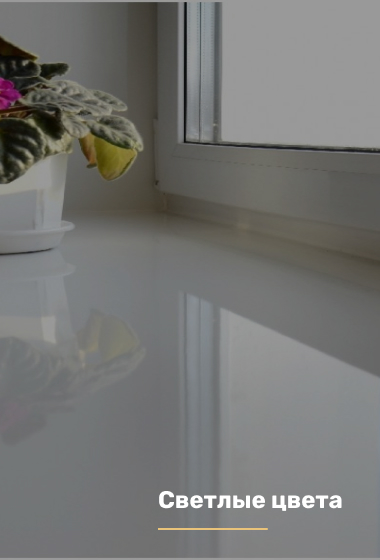
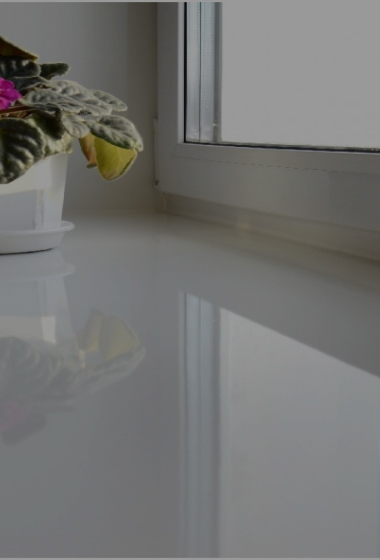
Add files via upload

Changed region(s): [[0.4053, 0.8804, 0.8974, 0.9107], [0.4342, 0.9411, 0.6947, 0.9714]]

diff --git a/crystallit/css/style.min.css b/crystallit/css/style.min.css
@@ -4,4 +4,4 @@
  * Copyright 2011-2019 Twitter, Inc.
  * Licensed under MIT (https://github.com/twbs/bootstrap/blob/master/LICENSE)
  * Forked from Normalize.css, licensed MIT (https://github.com/necolas/normalize.css/blob/master/LICENSE.md)
- */@import url(https://fonts.googleapis.com/css2?family=Open+Sans:wght@400;700&family=Roboto:wght@400;700&display=swap);*,::after,::before{box-sizing:border-box}html{font-family:sans-serif;line-height:1.15;-webkit-text-size-adjust:100%;-webkit-tap-highlight-color:transparent}article,aside,figcaption,figure,footer,header,hgroup,main,nav,section{display:block}body{margin:0;font-family:-apple-system,BlinkMacSystemFont,"Segoe UI",Roboto,"Helvetica Neue",Arial,"Noto Sans",sans-serif,"Apple Color Emoji","Segoe UI Emoji","Segoe UI Symbol","Noto Color Emoji";font-size:1rem;font-weight:400;line-height:1.5;color:#212529;text-align:left;background-color:#fff}[tabindex="-1"]:focus{outline:0!important}hr{box-sizing:content-box;height:0;overflow:visible}h1,h2,h3,h4,h5,h6{margin-top:0;margin-bottom:.5rem}p{margin-top:0;margin-bottom:1rem}abbr[data-original-title],abbr[title]{text-decoration:underline;-webkit-text-decoration:underline dotted;text-decoration:underline dotted;cursor:help;border-bottom:0;-webkit-text-decoration-skip-ink:none;text-decoration-skip-ink:none}address{margin-bottom:1rem;font-style:normal;line-height:inherit}dl,ol,ul{margin-top:0;margin-bottom:1rem}ol ol,ol ul,ul ol,ul ul{margin-bottom:0}dt{font-weight:700}dd{margin-bottom:.5rem;margin-left:0}blockquote{margin:0 0 1rem}b,strong{font-weight:bolder}small{font-size:80%}sub,sup{position:relative;font-size:75%;line-height:0;vertical-align:baseline}sub{bottom:-.25em}sup{top:-.5em}a{color:#007bff;text-decoration:none;background-color:transparent}a:hover{color:#0056b3;text-decoration:underline}a:not([href]):not([tabindex]){color:inherit;text-decoration:none}a:not([href]):not([tabindex]):focus,a:not([href]):not([tabindex]):hover{color:inherit;text-decoration:none}a:not([href]):not([tabindex]):focus{outline:0}code,kbd,pre,samp{font-family:SFMono-Regular,Menlo,Monaco,Consolas,"Liberation Mono","Courier New",monospace;font-size:1em}pre{margin-top:0;margin-bottom:1rem;overflow:auto}figure{margin:0 0 1rem}img{vertical-align:middle;border-style:none}svg{overflow:hidden;vertical-align:middle}table{border-collapse:collapse}caption{padding-top:.75rem;padding-bottom:.75rem;color:#6c757d;text-align:left;caption-side:bottom}th{text-align:inherit}label{display:inline-block;margin-bottom:.5rem}button{border-radius:0}button:focus{outline:1px dotted;outline:5px auto -webkit-focus-ring-color}button,input,optgroup,select,textarea{margin:0;font-family:inherit;font-size:inherit;line-height:inherit}button,input{overflow:visible}button,select{text-transform:none}select{word-wrap:normal}[type=button],[type=reset],[type=submit],button{-webkit-appearance:button}[type=button]:not(:disabled),[type=reset]:not(:disabled),[type=submit]:not(:disabled),button:not(:disabled){cursor:pointer}[type=button]::-moz-focus-inner,[type=reset]::-moz-focus-inner,[type=submit]::-moz-focus-inner,button::-moz-focus-inner{padding:0;border-style:none}input[type=checkbox],input[type=radio]{box-sizing:border-box;padding:0}input[type=date],input[type=datetime-local],input[type=month],input[type=time]{-webkit-appearance:listbox}textarea{overflow:auto;resize:vertical}fieldset{min-width:0;padding:0;margin:0;border:0}legend{display:block;width:100%;max-width:100%;padding:0;margin-bottom:.5rem;font-size:1.5rem;line-height:inherit;color:inherit;white-space:normal}progress{vertical-align:baseline}[type=number]::-webkit-inner-spin-button,[type=number]::-webkit-outer-spin-button{height:auto}[type=search]{outline-offset:-2px;-webkit-appearance:none}[type=search]::-webkit-search-decoration{-webkit-appearance:none}::-webkit-file-upload-button{font:inherit;-webkit-appearance:button}output{display:inline-block}summary{display:list-item;cursor:pointer}template{display:none}[hidden]{display:none!important}*{font-family:'Open Sans',sans-serif;font-family:Roboto,sans-serif;margin:0;padding:0}body{position:relative}.container{width:1190px;margin:0 auto;position:relative}.divider{width:100px;height:4px;background:#e9c37a;margin:0 auto;margin-top:21px}.promo{background:url(../img/header/header_bg.jpg) 50% 50%/cover no-repeat}.header{min-height:604px;padding-top:76px;position:relative}.header__wrapper{display:flex;justify-content:space-between;min-height:604px}.header__title{margin-top:109px;font-weight:700;font-size:56px;line-height:60px;color:#fff}.header__subtitle{font-family:"Open Sans";margin-top:52px;font-weight:700;font-size:20px;line-height:27px;color:#fff}.header__btn{margin-top:52px;width:220px;height:60px;background:rgba(0,0,0,.11);border:1px solid #fff;box-sizing:border-box;border-radius:10px;font-weight:700;font-size:16px;line-height:19px;color:#fff;transition:all .3s}.header__btn:hover{border:1px solid #e9c37a;color:#e9c37a}.header__slider{position:relative;left:38px;width:631px;padding-top:30px}.header__slider .slick-list{overflow:hidden}.header__slider .slick-track{display:flex;margin-left:10px}.header__slider .slick-slide{outline:0}.header__slider .slick-arrow{position:absolute;bottom:15px;right:34px;font-size:0;width:49px;height:49px;border:none;outline:0}.header__slider .slick-prev{background:url(../icons/slider-left.svg) 0 0/100% no-repeat;right:92px;transition:all .3s}.header__slider .slick-prev:hover{background:url(../icons/slider-left-hover.svg) 0 0/100% no-repeat}.header__slider .slick-next{background:url(../icons/slider-right.svg) 0 0/100% no-repeat;transition:all .3s}.header__slider .slick-next:hover{background:url(../icons/slider-right-hover.svg) 0 0/100% no-repeat}.header__slide{width:282px;height:475px;margin-right:20px}.header__slide img{width:100%;height:100%;-o-object-fit:cover;object-fit:cover;box-shadow:0 30px 12px rgba(0,0,0,.29);border-radius:3px}.header__socials{position:absolute;left:0;bottom:58px;width:213px;height:60px;color:#fff;display:flex;align-items:center;justify-content:space-between}.header__whatsapp{display:block;background:url(../icons/whatsapp.png) center center/cover no-repeat;width:60px;height:60px;transition:all .3s}.header__whatsapp:hover{background:url(../icons/whatsapp-hover.png) center center/cover no-repeat}.header__instagram{display:block;background:url(../icons/instagram.png) center center/cover no-repeat;width:60px;height:60px;transition:all .3s}.header__instagram:hover{background:url(../icons/instagram-hover.png) center center/cover no-repeat}.header__vk{display:block;background:url(../icons/vk.png) center center/cover no-repeat;width:60px;height:60px;transition:all .3s}.header__vk:hover{background:url(../icons/vk-hover.png) center center/cover no-repeat}.nav{height:76px;background:rgba(60,60,60,.81);padding-top:11px;position:fixed;top:0;left:0;width:100%;z-index:10}.nav__wrapper{display:flex;align-items:center;justify-content:space-between}.nav__logo{width:176px;height:52px}.nav__logo img{width:100%;height:100%;-o-object-fit:cover;object-fit:cover}.nav__menu{width:469px}.nav__list{display:flex;align-items:center;justify-content:space-between;margin-bottom:0}.nav__item{list-style-type:none}.nav__link{font-weight:400;font-size:14px;line-height:17px;color:#f8f8f8;position:relative}.nav__link:after{content:"";position:absolute;width:0;height:2px;background-color:#e9c37a;top:27px;left:0;transition:all .6s}.nav__link:hover{color:#e9c37a;text-decoration:none}.nav__link:hover:after{width:100%}.about{min-height:336px;padding:72px 0 42px 0}.about__about{font-family:"Open Sans";font-weight:700;font-size:18px;line-height:25px;color:#e9c37a}.about__wrapper{margin-top:23px;display:flex;justify-content:space-between;align-items:flex-start}.about__title{width:482px;font-family:Roboto;font-weight:700;font-size:34px;line-height:48px;color:#222}.about__descr{width:586px}.about__text1{font-family:"Open Sans";font-weight:400;font-size:16px;line-height:26px;color:#222}.about__text2{margin-top:12px;font-family:"Open Sans";font-weight:400;font-size:14px;line-height:28px;color:#222}.detail{min-height:590px;background:url(../img/detail/pattern.png) 80% center/cover no-repeat}.detail__wrapper{display:flex;align-items:center;justify-content:space-between}.detail__card{min-height:560px}.detail__title{font-family:Roboto;font-weight:400;font-size:24px;line-height:31px;color:#222;margin-top:39px;text-align:center}.detail__subtitle{font-family:"Open Sans";font-weight:400;font-size:14px;line-height:18px;color:#222;margin-top:21px;text-align:center}.detail__overlay{position:absolute;top:0;left:0;right:0;bottom:0;z-index:2}.detail__overlay a{display:block;width:100%;height:100%}.flip-card{width:385px;height:385px;perspective:1000px}.flip-card-inner{position:relative;width:100%;height:100%;transition:transform 1s;transform-style:preserve-3d}.flip-card:hover .flip-card-inner{transform:rotateY(180deg)}.flip-card-back,.flip-card-front{position:absolute;width:100%;height:100%;-webkit-backface-visibility:hidden;backface-visibility:hidden}.flip-card-front{z-index:2;display:flex;justify-content:center;align-items:center}.flip-card-back{transform:rotateY(180deg);z-index:1;display:flex;justify-content:center;align-items:center}.flip-card-back:after{position:absolute;content:"";width:80px;height:80px;top:60%;left:50%;transform:translate(-50%,-50%);transition:all .5s ease;z-index:1}.flip-card-back:hover:after{top:50%;background:url(../img/detail/link.png) center center/cover no-repeat}.choise{min-height:798px;background:url("../img/choise/Group 7.jpg") center center/cover no-repeat;position:relative}.choise__left{width:383px;position:absolute;left:18%;top:114px}.choise__title{font-family:Roboto;font-weight:700;font-size:34px;line-height:44px;color:#222}.choise__descr{font-family:"Open Sans";font-weight:400;font-size:14px;line-height:32px;color:#222;margin-top:33px}.choise__right{width:990px;position:absolute;right:5.7%;top:112px}.choise__right .slick-list{overflow:hidden}.choise__right .slick-track{display:flex}.choise__right .slick-slide{outline:0}.choise__right .slick-arrow{position:absolute;bottom:15px;right:34px;font-size:0;width:55px;height:55px;border:none;outline:0}.choise__right .slick-prev{background:url(../img/choise/slider/arrow-left.jpg) 0 0/100% no-repeat;bottom:-55px;left:-118px;transition:all .3s}.choise__right .slick-next{bottom:-55px;left:-55px;background:url(../img/choise/slider/arrow-right.jpg) 0 0/100% no-repeat;transition:all .3s}.choise__slide{width:380px;height:560px;position:relative}.choise__slide img{width:100%;height:100%;-o-object-fit:cover;object-fit:cover}.advantages{min-height:1200px;padding-top:100px}.advantages__block{display:flex;justify-content:space-between;flex-wrap:wrap;position:relative}.advantages__block_2{margin-top:100px}.advantages__title{width:385px;font-family:Roboto;font-weight:700;font-size:34px;line-height:44px;color:#222;position:relative}.advantages__title:before{content:'';position:absolute;width:60px;height:2px;background-color:#e9c37a;top:20px;left:-77px}.advantages__descr{position:absolute;width:525px;height:213px;padding:44px 59px;background:#fff;box-shadow:0 0 25px rgba(0,0,0,.3)}.advantages__descr_1{top:120px}.advantages__descr_2{right:0;top:120px}.advantages__list{list-style-type:none;margin-bottom:0}.advantages__item{font-family:"Open Sans";font-weight:400;font-size:16px;line-height:26px;color:#222;position:relative}.advantages__item:before{content:"";position:absolute;width:9px;height:9px;border-radius:50%;background-color:#e9c37a;left:-20px;top:8px}.advantages__item:hover:before{border:1px solid}.project{min-height:600px;padding-top:71px;padding-bottom:71px;background:url(../img/project/pattern.png) center center/cover no-repeat}.project__title{font-family:Roboto;font-weight:700;font-size:34px;line-height:44px;color:#222;text-align:center;position:relative}.project__title:before{content:'';position:absolute;width:60px;height:2px;background-color:#e9c37a;top:23px;left:221px}.project__wrapper{margin-top:71px;display:flex;justify-content:space-between}.project__block1{display:flex;flex-direction:column;justify-content:space-between}.project__block2{display:flex;align-items:center;justify-content:center}.project__img{position:relative;cursor:pointer}.project__img:after{content:"";position:absolute;top:5%;left:5%;width:90%;height:0%;background-color:rgba(233,195,122,.89);transition:all .6s}.project__img:hover:after{height:90%}.project__img1{width:347px;height:296px}.project__img1 img{width:100%;height:100%;-o-object-fit:cover;object-fit:cover}.project__img2{width:483px;height:600px}.project__img2 img{width:100%;height:100%;-o-object-fit:cover;object-fit:cover}.reviews{min-height:520px;background-color:#777;padding-top:57px}.reviews__slider{width:988px;height:326px;margin:0 auto;text-align:center;position:relative}.reviews__slider .slick-list{overflow:hidden}.reviews__slider .slick-track{display:flex}.reviews__slider .slick-slide{outline:0}.reviews__slider .slick-dots{position:absolute;bottom:-28px;left:50%;transform:translateX(-50%);display:flex;justify-content:space-between;align-items:center;list-style-type:none;font-size:0;width:65px}.reviews__slider .slick-dots li button{height:9px;width:9px;border:1px solid #fff;border-radius:50%;background-color:#777;outline:0}.reviews__slider .slick-dots li.slick-active button{height:9px;width:9px;border:1px solid #fff;border-radius:50%;outline:0;background-color:#fff}.reviews__quote{width:40px;height:40px;margin:0 auto}.reviews__quote img{width:100%;height:100%;-o-object-fit:cover;object-fit:cover}.reviews__title{margin-top:21px;font-family:"Open Sans";font-weight:700;font-size:30px;line-height:24px;color:#e9c37a}.reviews__review{margin-top:53px;font-family:"Open Sans";font-weight:400;font-size:16px;line-height:27px;color:#fff}.reviews__author{margin-top:53px;font-family:"Open Sans";font-weight:700;font-size:18px;line-height:27px;color:#fff;text-transform:uppercase}.form{min-height:620px;padding-top:120px;padding-bottom:72px;padding-left:50px}.form__wrapper{display:flex;justify-content:space-around;align-items:flex-start}.form__title{width:400px;font-family:Roboto;font-weight:700;font-size:34px;line-height:44px;color:#222}.form__title:before{content:'';position:absolute;width:60px;height:2px;background-color:#e9c37a;top:23px;left:-21px}.form__form{width:554px;margin-top:-42px}.form__form form{display:flex;flex-direction:column;justify-content:space-between}.form__input{width:100%;height:56px;background:#e9e8e8;padding:18px 29px;outline:0;margin-top:42px;border:none}.form__input::-webkit-input-placeholder{font-family:"Open Sans";font-weight:400;font-size:15px;line-height:20px;color:#222}.form__input::-moz-placeholder{font-family:"Open Sans";font-weight:400;font-size:15px;line-height:20px;color:#222}.form__input:-ms-input-placeholder{font-family:"Open Sans";font-weight:400;font-size:15px;line-height:20px;color:#222}.form__input::-ms-input-placeholder{font-family:"Open Sans";font-weight:400;font-size:15px;line-height:20px;color:#222}.form__input::placeholder{font-family:"Open Sans";font-weight:400;font-size:15px;line-height:20px;color:#222}.form__input2{margin-top:42px;width:100%;height:131px;background:#e9e8e8;padding:18px 29px;outline:0;border:none;resize:none}.form__input2::-webkit-input-placeholder{top:18px;font-family:"Open Sans";font-weight:400;font-size:15px;line-height:20px;color:#222}.form__input2::-moz-placeholder{top:18px;font-family:"Open Sans";font-weight:400;font-size:15px;line-height:20px;color:#222}.form__input2:-ms-input-placeholder{top:18px;font-family:"Open Sans";font-weight:400;font-size:15px;line-height:20px;color:#222}.form__input2::-ms-input-placeholder{top:18px;font-family:"Open Sans";font-weight:400;font-size:15px;line-height:20px;color:#222}.form__input2::placeholder{top:18px;font-family:"Open Sans";font-weight:400;font-size:15px;line-height:20px;color:#222}.form__btn{margin:0 auto;margin-top:52px;width:220px;height:60px;border:1px solid #000;box-sizing:border-box;border-radius:10px;background-color:#fff;transition:all .3s;text-transform:uppercase;font-family:Roboto;font-weight:700;font-size:16px;line-height:19px;color:#222}.form__btn:hover{border:2px solid #e9c37a;color:#e9c37a}.footer{min-height:347px;background:#1c1c1c;padding-top:60px}.footer__wrapper{display:flex;justify-content:space-between;align-items:flex-start}.footer__title{width:364px;font-family:Roboto;font-weight:700;font-size:36px;line-height:42px;color:#fff}.footer__subtitle{margin-top:24px;font-family:"Open Sans";font-weight:400;font-size:20px;line-height:27px;color:#fff}.footer__socials{margin-top:24px;display:flex;justify-content:space-between;align-items:center;width:138px}.footer__list{height:205px;display:flex;flex-direction:column;align-items:flex-start;justify-content:space-between;margin-bottom:0}.footer__item{list-style-type:none}.footer__link{font-family:Roboto;font-weight:400;font-size:14px;line-height:17px;color:#f8f8f8;position:relative;transition:all .6s}.footer__link:before{content:"";position:absolute;top:3px;left:-20px;width:9px;height:9px;border-radius:50%;background-color:#fff}.footer__link:hover{color:#e9c37a;text-decoration:none}.footer__link:hover:before{background-color:#e9c37a}.footer__contacts{width:330px;font-family:"Open Sans";font-style:normal;font-weight:400;font-size:20px;line-height:27px;color:#fff}.footer__contacts__title{font-family:Roboto;font-weight:700;font-size:36px;line-height:42px;color:#fff}.footer__contacts__address{margin-top:24px}.footer__contacts__phones{width:237px;margin-top:24px;text-align:right}.footer__contacts__email{margin-top:24px}.overlay{width:100%;height:100%;background:rgba(119,119,119,.9);position:fixed;top:0;display:none}.overlay__active{display:block}.modal{width:600px;position:absolute;top:50%;left:50%;transform:translate(-50%,-50%);background-color:#fff;padding:20px;padding-top:40px}.modal .form__form{margin:0 auto}.modal__title{margin-bottom:50px;font-family:Roboto;font-weight:700;font-size:36px;line-height:42px;color:#222;text-align:center}.modal__close{position:absolute;top:-8px;right:20px;font-size:46px;color:#e9c37a;cursor:pointer}
+ */@import url(https://fonts.googleapis.com/css2?family=Open+Sans:wght@400;700&family=Roboto:wght@400;700&display=swap);*,::after,::before{box-sizing:border-box}html{font-family:sans-serif;line-height:1.15;-webkit-text-size-adjust:100%;-webkit-tap-highlight-color:transparent}article,aside,figcaption,figure,footer,header,hgroup,main,nav,section{display:block}body{margin:0;font-family:-apple-system,BlinkMacSystemFont,"Segoe UI",Roboto,"Helvetica Neue",Arial,"Noto Sans",sans-serif,"Apple Color Emoji","Segoe UI Emoji","Segoe UI Symbol","Noto Color Emoji";font-size:1rem;font-weight:400;line-height:1.5;color:#212529;text-align:left;background-color:#fff}[tabindex="-1"]:focus{outline:0!important}hr{box-sizing:content-box;height:0;overflow:visible}h1,h2,h3,h4,h5,h6{margin-top:0;margin-bottom:.5rem}p{margin-top:0;margin-bottom:1rem}abbr[data-original-title],abbr[title]{text-decoration:underline;-webkit-text-decoration:underline dotted;text-decoration:underline dotted;cursor:help;border-bottom:0;-webkit-text-decoration-skip-ink:none;text-decoration-skip-ink:none}address{margin-bottom:1rem;font-style:normal;line-height:inherit}dl,ol,ul{margin-top:0;margin-bottom:1rem}ol ol,ol ul,ul ol,ul ul{margin-bottom:0}dt{font-weight:700}dd{margin-bottom:.5rem;margin-left:0}blockquote{margin:0 0 1rem}b,strong{font-weight:bolder}small{font-size:80%}sub,sup{position:relative;font-size:75%;line-height:0;vertical-align:baseline}sub{bottom:-.25em}sup{top:-.5em}a{color:#007bff;text-decoration:none;background-color:transparent}a:hover{color:#0056b3;text-decoration:underline}a:not([href]):not([tabindex]){color:inherit;text-decoration:none}a:not([href]):not([tabindex]):focus,a:not([href]):not([tabindex]):hover{color:inherit;text-decoration:none}a:not([href]):not([tabindex]):focus{outline:0}code,kbd,pre,samp{font-family:SFMono-Regular,Menlo,Monaco,Consolas,"Liberation Mono","Courier New",monospace;font-size:1em}pre{margin-top:0;margin-bottom:1rem;overflow:auto}figure{margin:0 0 1rem}img{vertical-align:middle;border-style:none}svg{overflow:hidden;vertical-align:middle}table{border-collapse:collapse}caption{padding-top:.75rem;padding-bottom:.75rem;color:#6c757d;text-align:left;caption-side:bottom}th{text-align:inherit}label{display:inline-block;margin-bottom:.5rem}button{border-radius:0}button:focus{outline:1px dotted;outline:5px auto -webkit-focus-ring-color}button,input,optgroup,select,textarea{margin:0;font-family:inherit;font-size:inherit;line-height:inherit}button,input{overflow:visible}button,select{text-transform:none}select{word-wrap:normal}[type=button],[type=reset],[type=submit],button{-webkit-appearance:button}[type=button]:not(:disabled),[type=reset]:not(:disabled),[type=submit]:not(:disabled),button:not(:disabled){cursor:pointer}[type=button]::-moz-focus-inner,[type=reset]::-moz-focus-inner,[type=submit]::-moz-focus-inner,button::-moz-focus-inner{padding:0;border-style:none}input[type=checkbox],input[type=radio]{box-sizing:border-box;padding:0}input[type=date],input[type=datetime-local],input[type=month],input[type=time]{-webkit-appearance:listbox}textarea{overflow:auto;resize:vertical}fieldset{min-width:0;padding:0;margin:0;border:0}legend{display:block;width:100%;max-width:100%;padding:0;margin-bottom:.5rem;font-size:1.5rem;line-height:inherit;color:inherit;white-space:normal}progress{vertical-align:baseline}[type=number]::-webkit-inner-spin-button,[type=number]::-webkit-outer-spin-button{height:auto}[type=search]{outline-offset:-2px;-webkit-appearance:none}[type=search]::-webkit-search-decoration{-webkit-appearance:none}::-webkit-file-upload-button{font:inherit;-webkit-appearance:button}output{display:inline-block}summary{display:list-item;cursor:pointer}template{display:none}[hidden]{display:none!important}*{font-family:'Open Sans',sans-serif;font-family:Roboto,sans-serif;margin:0;padding:0}body{position:relative}.container{width:1190px;margin:0 auto;position:relative}.divider{width:100px;height:4px;background:#e9c37a;margin:0 auto;margin-top:21px}.promo{background:url(../img/header/header_bg.jpg) 50% 50%/cover no-repeat}.header{min-height:604px;padding-top:76px;position:relative}.header__wrapper{display:flex;justify-content:space-between;min-height:604px}.header__title{margin-top:109px;font-weight:700;font-size:56px;line-height:60px;color:#fff}.header__subtitle{font-family:"Open Sans";margin-top:52px;font-weight:700;font-size:20px;line-height:27px;color:#fff}.header__btn{margin-top:52px;width:220px;height:60px;background:rgba(0,0,0,.11);border:1px solid #fff;box-sizing:border-box;border-radius:10px;font-weight:700;font-size:16px;line-height:19px;color:#fff;transition:all .3s}.header__btn:hover{border:1px solid #e9c37a;color:#e9c37a}.header__slider{position:relative;left:38px;width:631px;padding-top:30px}.header__slider .slick-list{overflow:hidden}.header__slider .slick-track{display:flex;margin-left:10px}.header__slider .slick-slide{outline:0}.header__slider .slick-arrow{position:absolute;bottom:15px;right:34px;font-size:0;width:49px;height:49px;border:none;outline:0}.header__slider .slick-prev{background:url(../icons/slider-left.svg) 0 0/100% no-repeat;right:92px;transition:all .3s}.header__slider .slick-prev:hover{background:url(../icons/slider-left-hover.svg) 0 0/100% no-repeat}.header__slider .slick-next{background:url(../icons/slider-right.svg) 0 0/100% no-repeat;transition:all .3s}.header__slider .slick-next:hover{background:url(../icons/slider-right-hover.svg) 0 0/100% no-repeat}.header__slide{width:282px;height:475px;margin-right:20px}.header__slide img{width:100%;height:100%;-o-object-fit:cover;object-fit:cover;box-shadow:0 30px 12px rgba(0,0,0,.29);border-radius:3px}.header__socials{position:absolute;left:0;bottom:58px;width:213px;height:60px;color:#fff;display:flex;align-items:center;justify-content:space-between}.header__whatsapp{display:block;background:url(../icons/whatsapp.png) center center/cover no-repeat;width:60px;height:60px;transition:all .3s}.header__whatsapp:hover{background:url(../icons/whatsapp-hover.png) center center/cover no-repeat}.header__instagram{display:block;background:url(../icons/instagram.png) center center/cover no-repeat;width:60px;height:60px;transition:all .3s}.header__instagram:hover{background:url(../icons/instagram-hover.png) center center/cover no-repeat}.header__vk{display:block;background:url(../icons/vk.png) center center/cover no-repeat;width:60px;height:60px;transition:all .3s}.header__vk:hover{background:url(../icons/vk-hover.png) center center/cover no-repeat}.nav{height:76px;background:rgba(60,60,60,.81);padding-top:11px;position:fixed;top:0;left:0;width:100%;z-index:10}.nav__wrapper{display:flex;align-items:center;justify-content:space-between}.nav__logo{width:176px;height:52px}.nav__logo img{width:100%;height:100%;-o-object-fit:cover;object-fit:cover}.nav__menu{width:469px}.nav__list{display:flex;align-items:center;justify-content:space-between;margin-bottom:0}.nav__item{list-style-type:none}.nav__link{font-weight:400;font-size:14px;line-height:17px;color:#f8f8f8;position:relative}.nav__link:after{content:"";position:absolute;width:0;height:2px;background-color:#e9c37a;top:27px;left:0;transition:all .6s}.nav__link:hover{color:#e9c37a;text-decoration:none}.nav__link:hover:after{width:100%}.about{min-height:336px;padding:72px 0 42px 0}.about__about{font-family:"Open Sans";font-weight:700;font-size:18px;line-height:25px;color:#e9c37a}.about__wrapper{margin-top:23px;display:flex;justify-content:space-between;align-items:flex-start}.about__title{width:482px;font-family:Roboto;font-weight:700;font-size:34px;line-height:48px;color:#222}.about__descr{width:586px}.about__text1{font-family:"Open Sans";font-weight:400;font-size:16px;line-height:26px;color:#222}.about__text2{margin-top:12px;font-family:"Open Sans";font-weight:400;font-size:14px;line-height:28px;color:#222}.detail{min-height:590px;background:url(../img/detail/pattern.png) 80% center/cover no-repeat}.detail__wrapper{display:flex;align-items:center;justify-content:space-between}.detail__card{min-height:560px}.detail__title{font-family:Roboto;font-weight:400;font-size:24px;line-height:31px;color:#222;margin-top:39px;text-align:center}.detail__subtitle{font-family:"Open Sans";font-weight:400;font-size:14px;line-height:18px;color:#222;margin-top:21px;text-align:center}.detail__overlay{position:absolute;top:0;left:0;right:0;bottom:0;z-index:2}.detail__overlay a{display:block;width:100%;height:100%}.flip-card{width:385px;height:385px;perspective:1000px}.flip-card-inner{position:relative;width:100%;height:100%;transition:transform 1s;transform-style:preserve-3d}.flip-card:hover .flip-card-inner{transform:rotateY(180deg)}.flip-card-back,.flip-card-front{position:absolute;width:100%;height:100%;-webkit-backface-visibility:hidden;backface-visibility:hidden}.flip-card-front{z-index:2;display:flex;justify-content:center;align-items:center}.flip-card-back{transform:rotateY(180deg);z-index:1;display:flex;justify-content:center;align-items:center}.flip-card-back:after{position:absolute;content:"";width:80px;height:80px;top:60%;left:50%;transform:translate(-50%,-50%);transition:all .5s ease;z-index:1}.flip-card-back:hover:after{top:50%;background:url(../img/detail/link.png) center center/cover no-repeat}.choise{min-height:760px}.choise__wrapper{display:flex}.choise__left{width:40%;background:url(../img/choise/leftColumn.png) center center/cover no-repeat;display:flex;flex-direction:column;align-items:flex-end;padding-top:60px;padding-right:20px}.choise__title{width:380px;font-family:Roboto;font-weight:700;font-size:34px;line-height:44px;color:#222}.choise__descr{width:380px;font-family:"Open Sans";font-weight:400;font-size:14px;line-height:32px;color:#222;margin-top:33px}.choise__right{width:59%;padding-top:60px;padding-bottom:50px;background:url(../img/choise/rightColumn.jpg) center center/cover no-repeat}.choise__right .slick-list{overflow:hidden}.choise__right .slick-track{display:flex}.choise__right .slick-slide{outline:0}.choise__right .slick-arrow{position:absolute;bottom:50px;right:34px;font-size:0;width:55px;height:55px;border:none;outline:0}.choise__right .slick-prev{background:url(../img/choise/slider/arrow-left.jpg) 0 0/100% no-repeat;bottom:0;left:-118px;transition:all .3s}.choise__right .slick-next{bottom:0;left:-55px;background:url(../img/choise/slider/arrow-right.jpg) 0 0/100% no-repeat;transition:all .3s}.choise__slider{position:relative}.choise__slide{width:380px;height:560px;position:relative}.choise__slide img{width:100%;height:100%;-o-object-fit:cover;object-fit:cover}.choise__slide__descr{font-family:Roboto;font-weight:700;font-size:24px;line-height:31px;color:#fff;position:absolute;right:30px;bottom:50px}.choise__slide__descr a{text-decoration:none;color:#fff;outline:0;border:none}.advantages{min-height:1200px;padding-top:70px}.advantages__block{display:flex;justify-content:space-between;flex-wrap:wrap;position:relative}.advantages__block_2{margin-top:100px}.advantages__title{width:385px;font-family:Roboto;font-weight:700;font-size:34px;line-height:44px;color:#222;position:relative}.advantages__title:before{content:'';position:absolute;width:60px;height:2px;background-color:#e9c37a;top:20px;left:-77px}.advantages__descr{position:absolute;width:525px;height:213px;padding:44px 59px;background:#fff;box-shadow:0 0 25px rgba(0,0,0,.3)}.advantages__descr_1{top:120px}.advantages__descr_2{right:0;top:120px}.advantages__list{list-style-type:none;margin-bottom:0}.advantages__item{font-family:"Open Sans";font-weight:400;font-size:16px;line-height:26px;color:#222;position:relative}.advantages__item:before{content:"";position:absolute;width:9px;height:9px;border-radius:50%;background-color:#e9c37a;left:-20px;top:8px}.advantages__item:hover:before{border:1px solid}.project{min-height:600px;padding-top:71px;padding-bottom:71px;background:url(../img/project/pattern.png) center center/cover no-repeat}.project__title{font-family:Roboto;font-weight:700;font-size:34px;line-height:44px;color:#222;text-align:center;position:relative}.project__title:before{content:'';position:absolute;width:60px;height:2px;background-color:#e9c37a;top:23px;left:221px}.project__wrapper{margin-top:71px;display:flex;justify-content:space-between}.project__block1{display:flex;flex-direction:column;justify-content:space-between}.project__block2{display:flex;align-items:center;justify-content:center}.project__img{position:relative;cursor:pointer}.project__img:after{content:"";position:absolute;top:5%;left:5%;width:90%;height:0%;background-color:rgba(233,195,122,.89);transition:all .6s}.project__img:hover:after{height:90%}.project__img1{width:347px;height:296px}.project__img1 img{width:100%;height:100%;-o-object-fit:cover;object-fit:cover}.project__img2{width:483px;height:600px}.project__img2 img{width:100%;height:100%;-o-object-fit:cover;object-fit:cover}.reviews{min-height:520px;background-color:#777;padding-top:57px}.reviews__slider{width:988px;height:326px;margin:0 auto;text-align:center;position:relative}.reviews__slider .slick-list{overflow:hidden}.reviews__slider .slick-track{display:flex}.reviews__slider .slick-slide{outline:0}.reviews__slider .slick-dots{position:absolute;bottom:-28px;left:50%;transform:translateX(-50%);display:flex;justify-content:space-between;align-items:center;list-style-type:none;font-size:0;width:65px}.reviews__slider .slick-dots li button{height:9px;width:9px;border:1px solid #fff;border-radius:50%;background-color:#777;outline:0}.reviews__slider .slick-dots li.slick-active button{height:9px;width:9px;border:1px solid #fff;border-radius:50%;outline:0;background-color:#fff}.reviews__quote{width:40px;height:40px;margin:0 auto}.reviews__quote img{width:100%;height:100%;-o-object-fit:cover;object-fit:cover}.reviews__title{margin-top:21px;font-family:"Open Sans";font-weight:700;font-size:30px;line-height:24px;color:#e9c37a}.reviews__review{margin-top:53px;font-family:"Open Sans";font-weight:400;font-size:16px;line-height:27px;color:#fff}.reviews__author{margin-top:53px;font-family:"Open Sans";font-weight:700;font-size:18px;line-height:27px;color:#fff;text-transform:uppercase}.form{min-height:620px;padding-top:120px;padding-bottom:72px;padding-left:50px}.form__wrapper{display:flex;justify-content:space-around;align-items:flex-start}.form__title{width:400px;font-family:Roboto;font-weight:700;font-size:34px;line-height:44px;color:#222}.form__title:before{content:'';position:absolute;width:60px;height:2px;background-color:#e9c37a;top:23px;left:-21px}.form__form{width:554px;margin-top:-42px}.form__form form{display:flex;flex-direction:column;justify-content:space-between}.form__input{width:100%;height:56px;background:#e9e8e8;padding:18px 29px;outline:0;margin-top:42px;border:none}.form__input::-webkit-input-placeholder{font-family:"Open Sans";font-weight:400;font-size:15px;line-height:20px;color:#222}.form__input::-moz-placeholder{font-family:"Open Sans";font-weight:400;font-size:15px;line-height:20px;color:#222}.form__input:-ms-input-placeholder{font-family:"Open Sans";font-weight:400;font-size:15px;line-height:20px;color:#222}.form__input::-ms-input-placeholder{font-family:"Open Sans";font-weight:400;font-size:15px;line-height:20px;color:#222}.form__input::placeholder{font-family:"Open Sans";font-weight:400;font-size:15px;line-height:20px;color:#222}.form__input2{margin-top:42px;width:100%;height:131px;background:#e9e8e8;padding:18px 29px;outline:0;border:none;resize:none}.form__input2::-webkit-input-placeholder{top:18px;font-family:"Open Sans";font-weight:400;font-size:15px;line-height:20px;color:#222}.form__input2::-moz-placeholder{top:18px;font-family:"Open Sans";font-weight:400;font-size:15px;line-height:20px;color:#222}.form__input2:-ms-input-placeholder{top:18px;font-family:"Open Sans";font-weight:400;font-size:15px;line-height:20px;color:#222}.form__input2::-ms-input-placeholder{top:18px;font-family:"Open Sans";font-weight:400;font-size:15px;line-height:20px;color:#222}.form__input2::placeholder{top:18px;font-family:"Open Sans";font-weight:400;font-size:15px;line-height:20px;color:#222}.form__btn{margin:0 auto;margin-top:52px;width:220px;height:60px;border:1px solid #000;box-sizing:border-box;border-radius:10px;background-color:#fff;transition:all .3s;text-transform:uppercase;font-family:Roboto;font-weight:700;font-size:16px;line-height:19px;color:#222}.form__btn:hover{border:2px solid #e9c37a;color:#e9c37a}.footer{min-height:347px;background:#1c1c1c;padding-top:60px}.footer__wrapper{display:flex;justify-content:space-between;align-items:flex-start}.footer__title{width:364px;font-family:Roboto;font-weight:700;font-size:36px;line-height:42px;color:#fff}.footer__subtitle{margin-top:24px;font-family:"Open Sans";font-weight:400;font-size:20px;line-height:27px;color:#fff}.footer__socials{margin-top:24px;display:flex;justify-content:space-between;align-items:center;width:138px}.footer__list{height:205px;display:flex;flex-direction:column;align-items:flex-start;justify-content:space-between;margin-bottom:0}.footer__item{list-style-type:none}.footer__link{font-family:Roboto;font-weight:400;font-size:14px;line-height:17px;color:#f8f8f8;position:relative;transition:all .6s}.footer__link:before{content:"";position:absolute;top:3px;left:-20px;width:9px;height:9px;border-radius:50%;background-color:#fff}.footer__link:hover{color:#e9c37a;text-decoration:none}.footer__link:hover:before{background-color:#e9c37a}.footer__contacts{width:330px;font-family:"Open Sans";font-style:normal;font-weight:400;font-size:20px;line-height:27px;color:#fff}.footer__contacts__title{font-family:Roboto;font-weight:700;font-size:36px;line-height:42px;color:#fff}.footer__contacts__address{margin-top:24px}.footer__contacts__phones{width:237px;margin-top:24px;text-align:right}.footer__contacts__email{margin-top:24px}.overlay{width:100%;height:100%;background:rgba(119,119,119,.9);position:fixed;top:0;display:none}.overlay__active{display:block}.modal{width:600px;position:absolute;top:50%;left:50%;transform:translate(-50%,-50%);background-color:#fff;padding:20px;padding-top:40px}.modal .form__form{margin:0 auto}.modal__title{margin-bottom:50px;font-family:Roboto;font-weight:700;font-size:36px;line-height:42px;color:#222;text-align:center}.modal__close{position:absolute;top:-8px;right:20px;font-size:46px;color:#e9c37a;cursor:pointer}

diff --git a/crystallit/index.html b/crystallit/index.html
@@ -149,35 +149,63 @@
     </section>
 
     <section class="choise">
-        <div class="choise__left"> 
-            <h2 class="choise__title">Хотите обновить
-                дизайн квартиры
-                или рабочего места?</h2>
-            <div class="choise__descr">ПВХ подоконники Crystallit – то, что Вам нужно! Неоспоримые достоинства и доступная цена делают их одними из наиболее востребованных подоконников на рынке нашей страны. Если Вы заинтересованы в качественной и недорогой продукции, предлагаем купить подоконники Кристаллит в нашей компании на самых выгодных условиях</div>
-
-        </div>
-        <div class="choise__right">
-            <div class="choise__slider">
-                <div class="choise__slide">
-                    <a href="#"><img src="img/choise/slider/light.jpg" alt="Белые подоконники"></a>
+        <!-- <div class="container"> -->
+            <div class="choise__wrapper">
+                <div class="choise__left"> 
+                    <h2 class="choise__title">Хотите обновить
+                        дизайн квартиры
+                        или рабочего места?</h2>
+                    <div class="choise__descr">ПВХ подоконники Crystallit – то, что Вам нужно! Неоспоримые достоинства и доступная цена делают их одними из наиболее востребованных подоконников на рынке нашей страны. Если Вы заинтересованы в качественной и недорогой продукции, предлагаем купить подоконники Кристаллит в нашей компании на самых выгодных условиях</div>
+        
                 </div>
-                <div class="choise__slide">
-                    <a href="#"><img src="img/choise/slider/wooden.jpg" alt="Под дерево"></a>
-                </div>
-                <div class="choise__slide">
-                    <a href="#"><img src="img/choise/slider/stone.jpg" alt="Под камень"></a>
-                </div>
-                <div class="choise__slide">
-                    <a href="#"><img src="img/choise/slider/light.jpg" alt="Белые подоконники"></a>
-                </div>
-                <div class="choise__slide">
-                    <a href="#"><img src="img/choise/slider/wooden.jpg" alt="Под дерево"></a>
-                </div>
-                <div class="choise__slide">
-                    <a href="#"><img src="img/choise/slider/stone.jpg" alt="Под камень"></a>
+                <div class="choise__right">
+                    <div class="choise__slider">
+                        <div class="choise__slide">
+                            <img src="img/choise/slider/light.jpg" alt="Белые подоконники">
+                            <div class="choise__slide__descr">
+                                <a href="#">Светлые цвета</a>
+                                <div class="divider"></div>
+                            </div>
+                        </div>
+                        <div class="choise__slide">
+                            <img src="img/choise/slider/wooden.jpg" alt="Под дерево">
+                            <div class="choise__slide__descr">
+                                <a href="#">Под дерево</a>
+                                <div class="divider"></div>
+                            </div>
+                        </div>
+                        <div class="choise__slide">
+                            <img src="img/choise/slider/stone.jpg" alt="Под камень">
+                            <div class="choise__slide__descr">
+                                <a href="#">Под камень</a>
+                                <div class="divider"></div>
+                            </div>
+                        </div>
+                        <div class="choise__slide">
+                            <img src="img/choise/slider/light.jpg" alt="Белые подоконники">
+                            <div class="choise__slide__descr">
+                                <a href="#">Светлые цвета</a>
+                                <div class="divider"></div>
+                            </div>
+                        </div>
+                        <div class="choise__slide">
+                            <img src="img/choise/slider/wooden.jpg" alt="Под дерево">
+                            <div class="choise__slide__descr">
+                                <a href="#">Под дерево</a>
+                                <div class="divider"></div>
+                            </div>
+                        </div>
+                        <div class="choise__slide">
+                            <img src="img/choise/slider/stone.jpg" alt="Под камень">
+                            <div class="choise__slide__descr">
+                                <a href="#">Под камень</a>
+                                <div class="divider"></div>
+                            </div>
+                        </div>
+                    </div>
                 </div>
             </div>
-        </div>
+        <!-- </div> -->
     </section>
     <section class="advantages">
         <div class="container">
